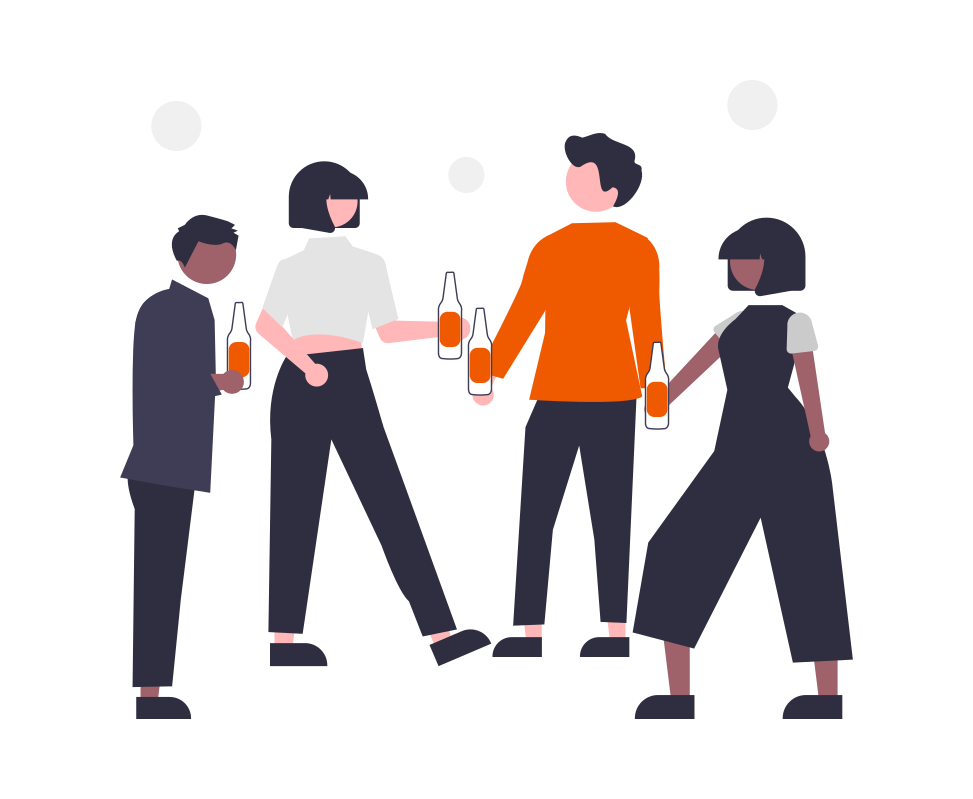
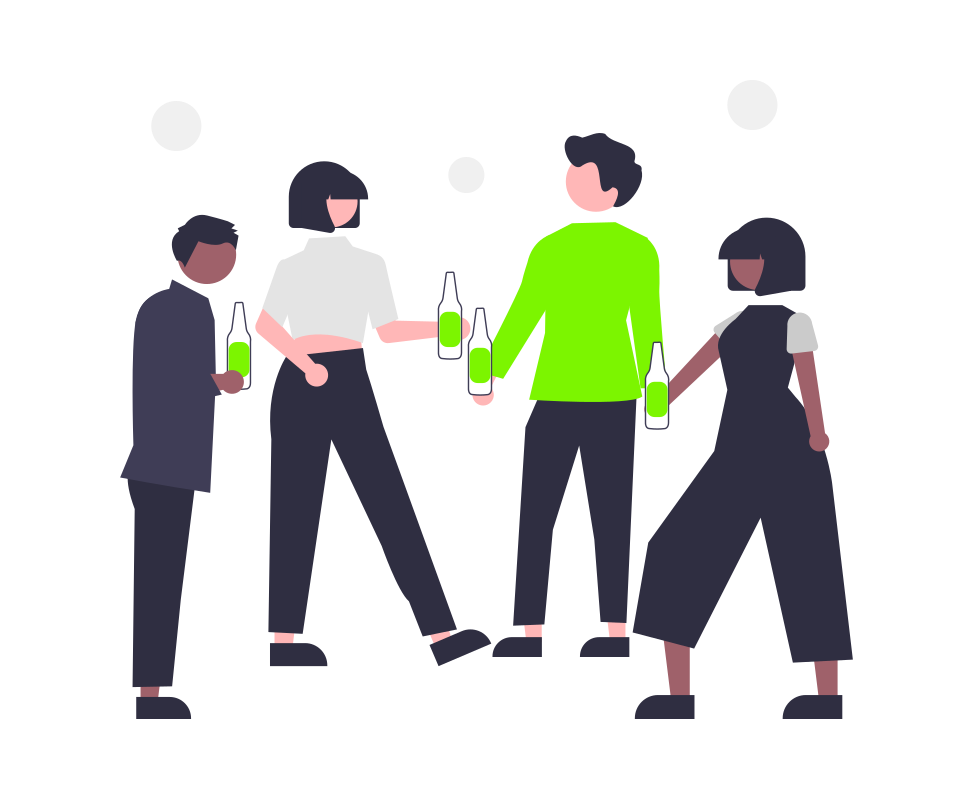
Initialized Firebase

Changed region(s): [[0.4317, 0.2703, 0.7091, 0.5407], [0.2158, 0.4205, 0.2775, 0.4806]]

diff --git a/lib/main.dart b/lib/main.dart
@@ -1,13 +1,18 @@
+import 'package:firebase_core/firebase_core.dart';
 import 'package:flutter/material.dart';
 import 'package:group_chat_app/screens/login_screen.dart';
 
-void main() {
+Future main() async {
+  WidgetsFlutterBinding.ensureInitialized();
+  await Firebase.initializeApp();
   runApp(const MyApp());
 }
 
 class MyApp extends StatelessWidget {
   const MyApp({super.key});
 
+  //#7CF500
+//  The color code to be used later on
   // This widget is the root of your application.
   @override
   Widget build(BuildContext context) {
@@ -15,7 +20,7 @@ class MyApp extends StatelessWidget {
       debugShowCheckedModeBanner: false,
       title: 'Flutter Chat App',
       theme: ThemeData(
-          scaffoldBackgroundColor: Colors.brown[50],
+          scaffoldBackgroundColor: Colors.white,
           elevatedButtonTheme: ElevatedButtonThemeData(
             style: ElevatedButton.styleFrom(
               elevation: 0,

diff --git a/lib/screens/signup_screen.dart b/lib/screens/signup_screen.dart
@@ -38,7 +38,7 @@ class _SignUpScreenState extends State<SignUpScreen> {
               width: size.width - 90,
               height: size.height * 0.4,
               child: Image.asset(
-                "assets/logo.jpeg",
+                "assets/signup.png",
                 height: size.height * 0.45,
                 width: 50,
               ),
